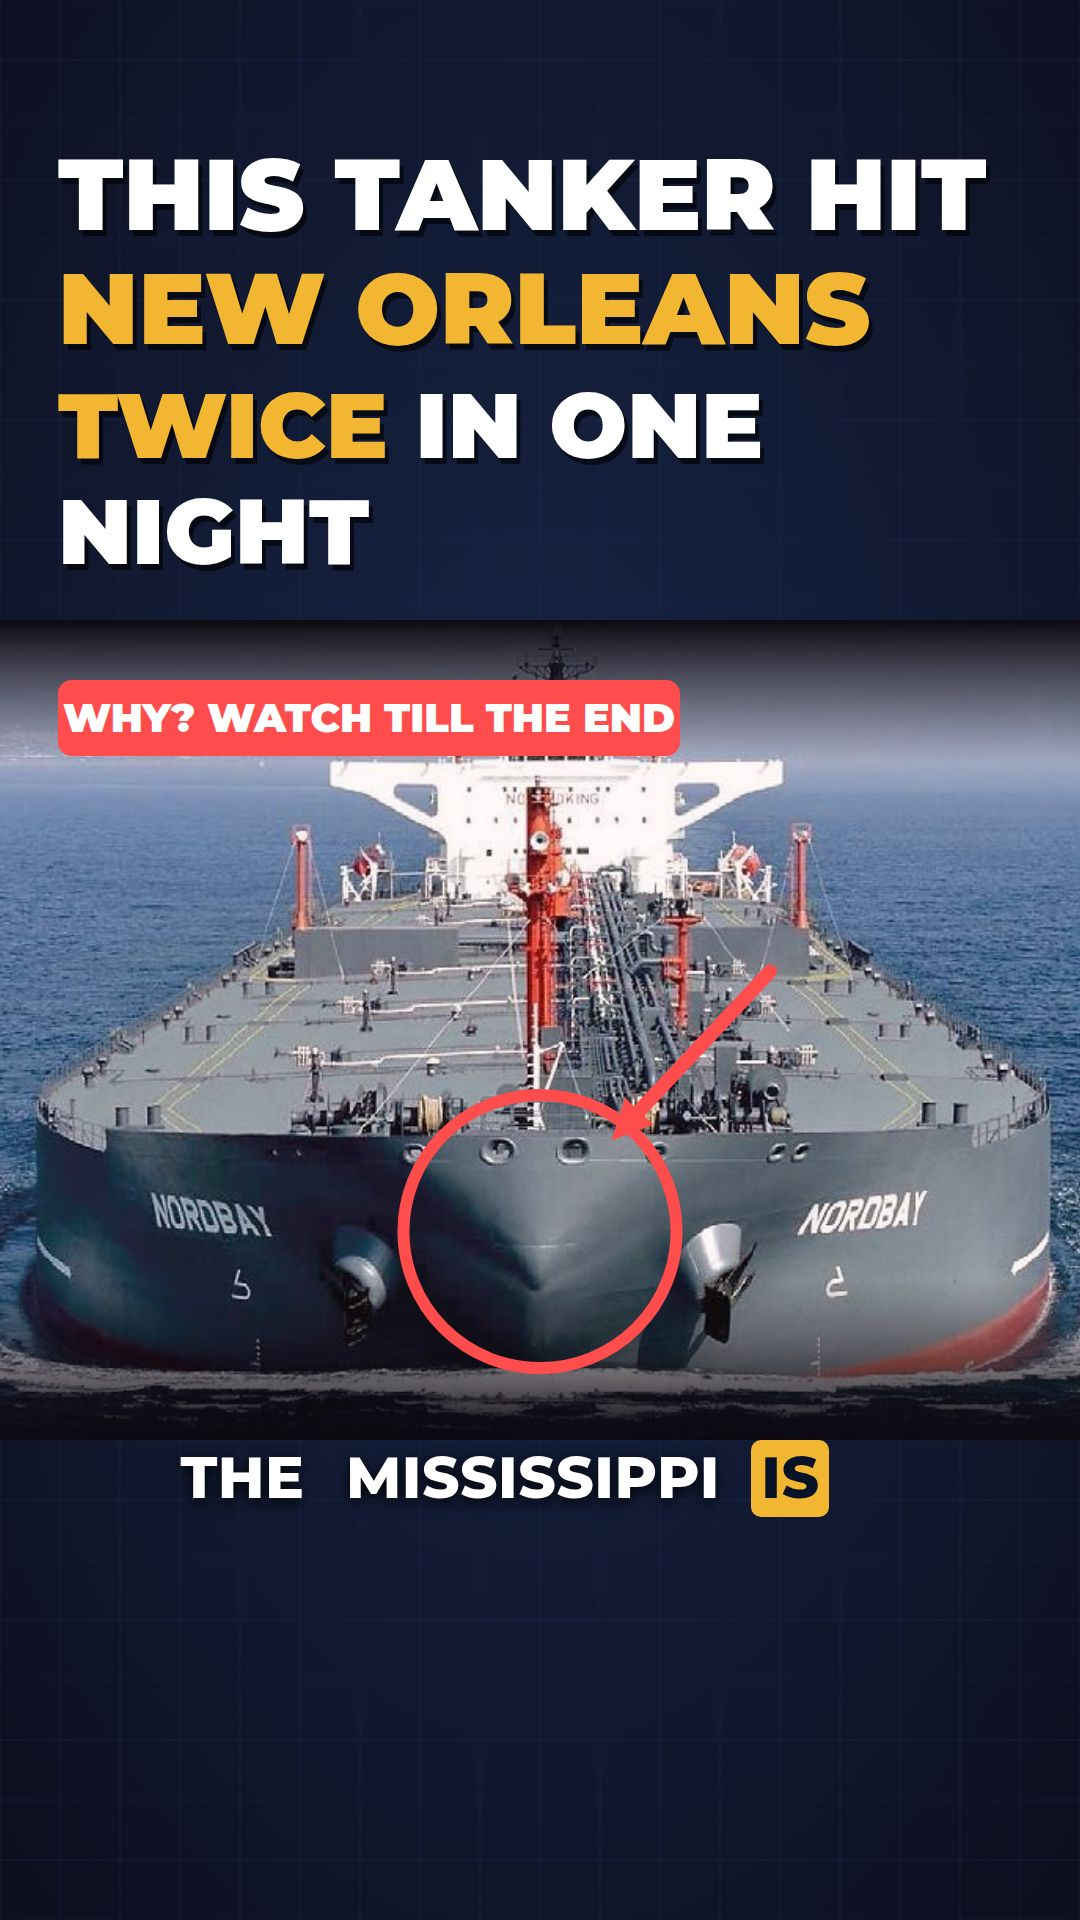
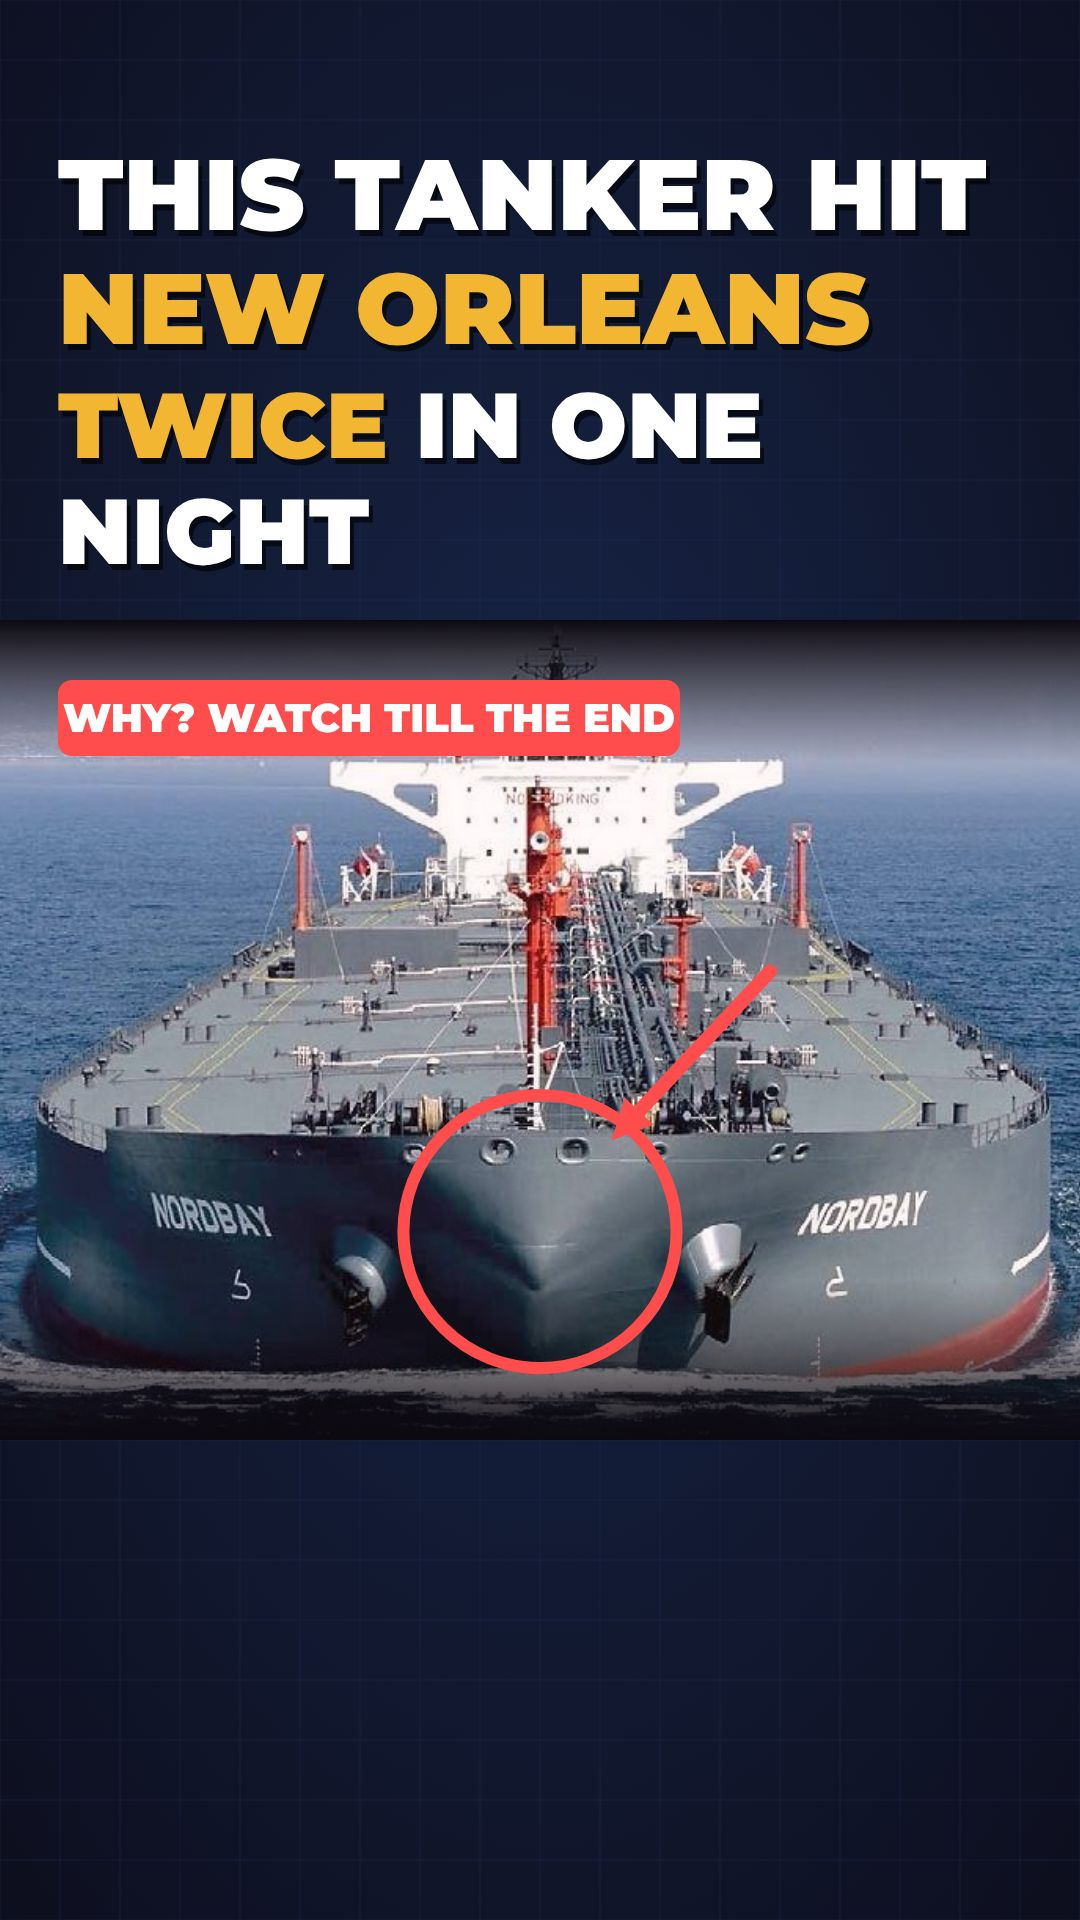
Cover without captions
Claude-Session: https://claude.ai/code/session_019jHvMJLkehMsvB4jsQ53rN

Changed region(s): [[0.3056, 0.75, 0.7944, 0.8125], [0.1528, 0.75, 0.275, 0.7812]]

diff --git a/reel/render.py b/reel/render.py
@@ -277,7 +277,7 @@ def build(ep_path, mode="auto", preview=None, snaps=None):
                     "-c:v", "copy", "-c:a", "aac", "-b:a", "192k", "-ar", "48000", "-shortest", "-movflags", "+faststart", str(final)],
                    check=True)
     try:   # cover / thumbnail = the hook frame
-        snapshot(ep, [min(2.8, ep["scenes"][0]["_dur"] - 0.3)], work)
+        snapshot(dict(ep, words=[]), [min(2.8, ep["scenes"][0]["_dur"] - 0.3)], work)
         snap = sorted(work.glob("snap_*.jpg"))[0]; snap.rename(work / "cover.jpg")
     except Exception as e:
         print("cover failed", e)
